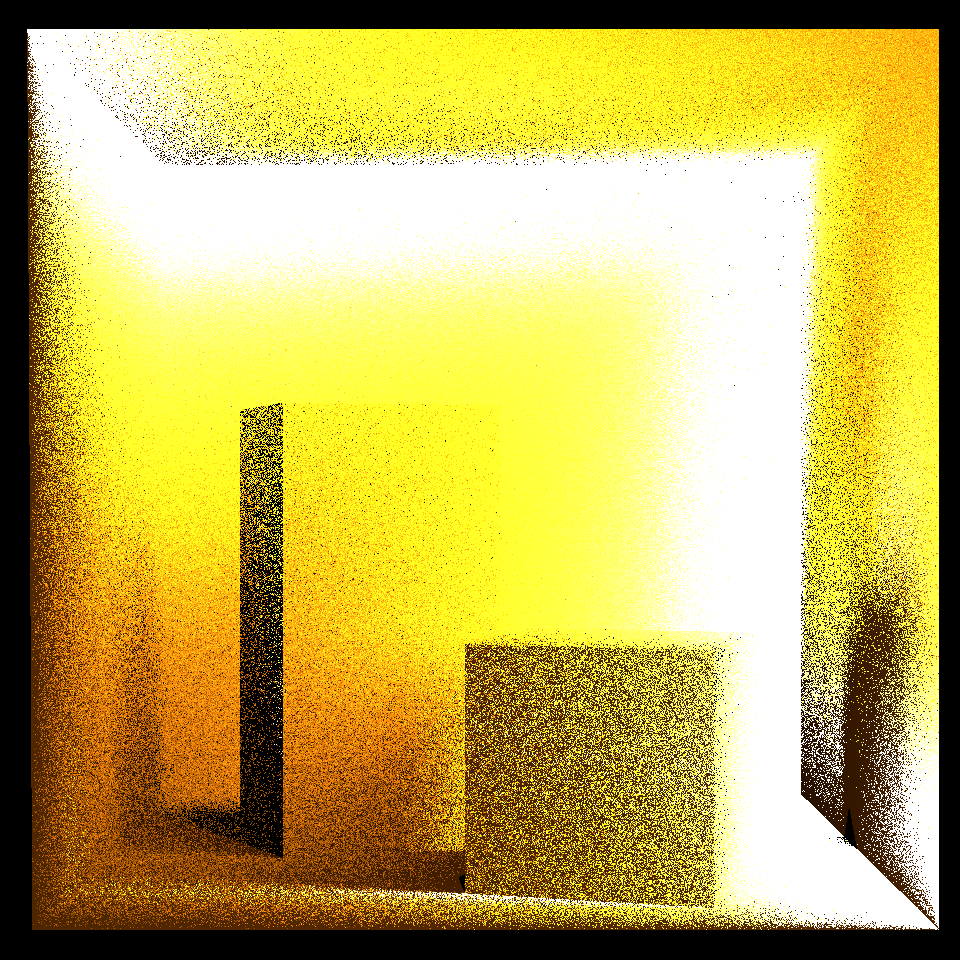
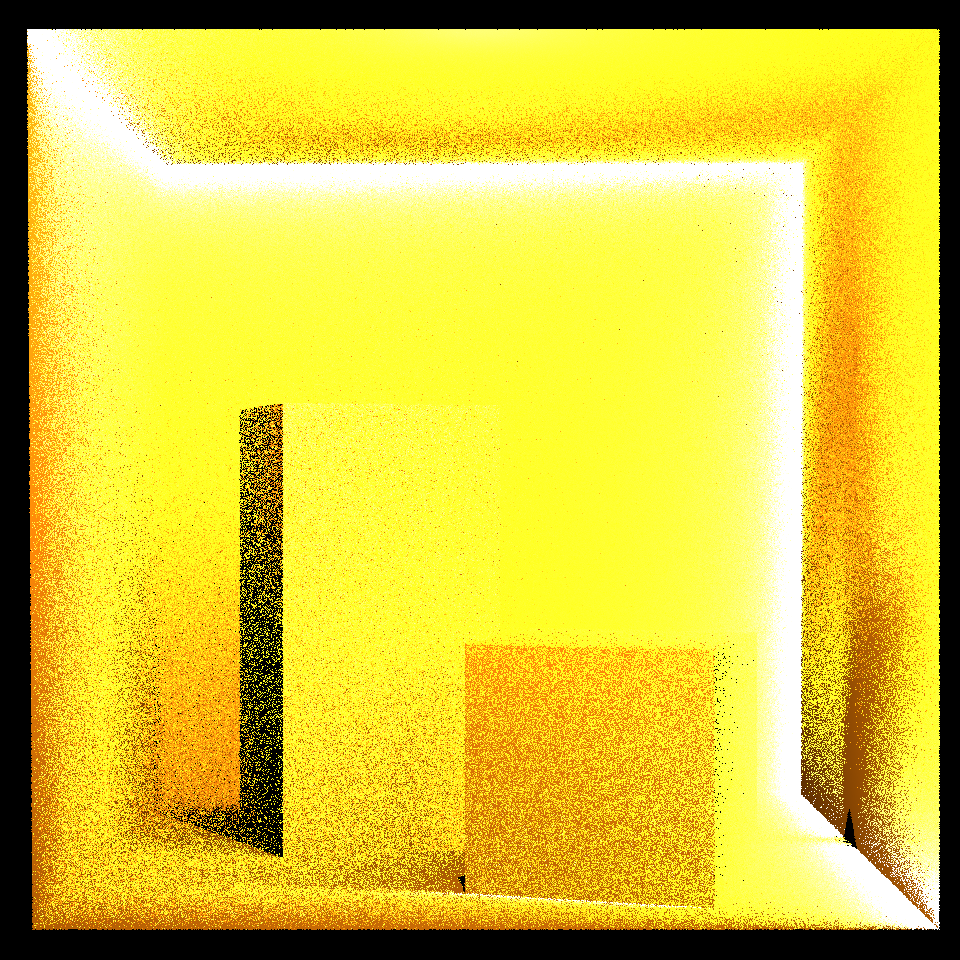
jittered camera rays over their entire domain!

diff --git a/src/ray_tracing/pixel_shader.rs b/src/ray_tracing/pixel_shader.rs
@@ -7,10 +7,11 @@ use crate::ray_tracing::ray_polygon_intersection::probe_ray_polygon_intersection
 
 use crate::scene::Scene;
 use image::{Rgb, RgbImage};
+use rand::{prelude::ThreadRng, thread_rng};
 use stopwatch::Stopwatch;
 
 /// applies rendering mode to scene and yields a canvas
-pub fn shade_pixels<F: Fn(u32, u32, &Scene) -> Rgb<u8>>(
+pub fn shade_pixels<F: Fn(u32, u32, &Scene, &mut ThreadRng) -> Rgb<u8>>(
     mini_canvas: &mut RgbImage,
     scene: &Scene,
     closure: F,
@@ -19,13 +20,14 @@ pub fn shade_pixels<F: Fn(u32, u32, &Scene) -> Rgb<u8>>(
     y_start: u32,
     y_end: u32,
 ) {
+    let mut rng: rand::prelude::ThreadRng = thread_rng();
     let mut shading = Stopwatch::start_new();
     // let (width, height) = canvas.dimensions();
     let _width = y_end - y_start;
     let _height = x_end - x_start;
     for y in y_start..y_end {
         for x in x_start..x_end {
-            let color = closure(x, y, scene);
+            let color = closure(x, y, scene, &mut rng);
             mini_canvas.put_pixel(x - x_start, y - y_start, color);
         }
     }
@@ -34,7 +36,7 @@ pub fn shade_pixels<F: Fn(u32, u32, &Scene) -> Rgb<u8>>(
     if scene.logging > 1 {}
 }
 
-pub fn _color_shader(x: u32, y: u32, scene: &Scene) -> Rgb<u8> {
+pub fn _color_shader(x: u32, y: u32, scene: &Scene, _rng: &mut ThreadRng) -> Rgb<u8> {
     let (hres, vres) = scene.active_camera.sensor.res();
     let x = x as f32 / (hres as f32);
     let y = y as f32 / (vres as f32);
@@ -62,8 +64,8 @@ pub fn _color_shader(x: u32, y: u32, scene: &Scene) -> Rgb<u8> {
 }
 
 /// shades all objects as solid
-pub fn _solid_shader(x: u32, y: u32, scene: &Scene) -> Rgb<u8> {
-    let ray = Camera::pixel_to_ray(&scene.active_camera, x, y);
+pub fn _solid_shader(x: u32, y: u32, scene: &Scene, rng: &mut ThreadRng) -> Rgb<u8> {
+    let ray = Camera::pixel_to_ray(&scene.active_camera, x, y, rng);
     let mut hit = false;
     // here we're at once per pixel
     for object in &scene.objects {
@@ -94,8 +96,8 @@ pub fn _solid_shader(x: u32, y: u32, scene: &Scene) -> Rgb<u8> {
 }
 
 /// shows where bounding volume hierarchies are
-pub fn bvh_shader(x: u32, y: u32, scene: &Scene) -> Rgb<u8> {
-    let ray = Camera::pixel_to_ray(&scene.active_camera, x, y);
+pub fn bvh_shader(x: u32, y: u32, scene: &Scene, rng: &mut ThreadRng) -> Rgb<u8> {
+    let ray = Camera::pixel_to_ray(&scene.active_camera, x, y, rng);
     let mut hit = false;
     // here we're at once per pixel
     for object in &scene.objects {
@@ -113,8 +115,8 @@ pub fn bvh_shader(x: u32, y: u32, scene: &Scene) -> Rgb<u8> {
 }
 
 /// render depth
-pub fn z_shader(x: u32, y: u32, scene: &Scene) -> Rgb<u8> {
-    let ray = Camera::pixel_to_ray(&scene.active_camera, x, y);
+pub fn z_shader(x: u32, y: u32, scene: &Scene, rng: &mut ThreadRng) -> Rgb<u8> {
+    let ray = Camera::pixel_to_ray(&scene.active_camera, x, y, rng);
     let intersection = shoot_ray(ray, scene, scene.max_trace_depth);
     if intersection.is_none() {
         Rgb([0, 0, 0])
@@ -128,24 +130,31 @@ pub fn z_shader(x: u32, y: u32, scene: &Scene) -> Rgb<u8> {
 
 /// fully lit shading mode
 /// this lambda is executed once per pixel
-pub fn lit_shader(x: u32, y: u32, scene: &Scene) -> Rgb<u8> {
-    let ray = Camera::pixel_to_ray(&scene.active_camera, x, y);
+pub fn lit_shader(x: u32, y: u32, scene: &Scene, rng: &mut ThreadRng) -> Rgb<u8> {
+    let ray = Camera::pixel_to_ray(&scene.active_camera, x, y, rng);
     let mut output: RadiantExitance = black_spectra().into();
     for _ in 0..scene.samples {
-        output.0 = output.0 + dispatch_light_ray(ray.clone(), scene, scene.max_trace_depth).0;
+        output.0 = output.0 + dispatch_light_ray(ray.clone(), scene, scene.max_trace_depth, rng).0;
     }
     let sample_average = output.0 / scene.samples as f32;
-    let output = scene.active_camera.exposure_time
+
+    // we should take a value parameterized in radiance, not radiant exitance
+    let joules = scene.active_camera.exposure_time
         * scene.active_camera.sensor._pixel_area()
         * scene.active_camera._pixel_solid_angle()
         * sample_average;
 
-    spectra_to_display(&output)
+    spectra_to_display(&joules)
 }
 
 /// this is what is recursed
 /// the ray is given
-pub fn dispatch_light_ray(ray: Ray, scene: &Scene, _trace_depth: u32) -> RadiantExitance {
+pub fn dispatch_light_ray(
+    ray: Ray,
+    scene: &Scene,
+    _trace_depth: u32,
+    rng: &mut ThreadRng,
+) -> RadiantExitance {
     let intersection = shoot_ray(ray, scene, scene.max_trace_depth);
     if intersection.is_none() {
         return void_spectra().into();
@@ -154,6 +163,8 @@ pub fn dispatch_light_ray(ray: Ray, scene: &Scene, _trace_depth: u32) -> Radiant
     let (object, intersection_point, ω_o, normal) = intersection.unwrap();
 
     // direct illumination
+    // this is basically integrating incoming light to our point
+    // we know the area subtended by this light source already, so we don't need multiple samples
     let direct_illumination: RadiantExitance =
         compute_direct_illumination(scene, object, intersection_point, ω_o, normal, _trace_depth);
     // direct_illumination
@@ -166,8 +177,8 @@ pub fn dispatch_light_ray(ray: Ray, scene: &Scene, _trace_depth: u32) -> Radiant
         //     surface_normal,
         // ));
 
-        let ray = Ray::new(intersection_point, _even_over_hemisphere(normal));
-        let indirect_illumination = dispatch_light_ray(ray, scene, scene.max_trace_depth - 1);
+        let ray = Ray::new(intersection_point, _even_over_hemisphere(normal, rng));
+        let indirect_illumination = dispatch_light_ray(ray, scene, scene.max_trace_depth - 1, rng);
         (direct_illumination.0 + indirect_illumination.0).into()
     } else {
         direct_illumination
@@ -296,13 +307,14 @@ mod tests {
     fn pixel_rays() {
         let mut scene = simple_scene();
         let mut ray: Ray;
+        let mut rng = thread_rng();
 
         scene.active_camera.lens.focal_length = 18.0;
         scene.active_camera.sensor.width = 36.0;
 
         scene.active_camera.sensor.horizontal_res = 3;
         scene.active_camera.sensor.vertical_res = 3;
-        ray = Camera::pixel_to_ray(&scene.active_camera, 0, 2);
+        ray = Camera::pixel_to_ray(&scene.active_camera, 0, 2, &mut rng);
 
         // println!("direction: {:?}", ray.direction);
 
@@ -314,7 +326,7 @@ mod tests {
 
         scene.active_camera.sensor.horizontal_res = 1;
         scene.active_camera.sensor.vertical_res = 1;
-        ray = Camera::pixel_to_ray(&scene.active_camera, 0, 0);
+        ray = Camera::pixel_to_ray(&scene.active_camera, 0, 0, &mut rng);
 
         // println!("direction: {:?}", ray.direction);
 

diff --git a/src/geometry/primitives.rs b/src/geometry/primitives.rs
@@ -2,7 +2,7 @@
 use crate::geometry::transformations::{compile_transforms, Transform};
 use image::{Rgb, RgbImage};
 use ndarray::Array1;
-use rand::Rng;
+use rand::{prelude::ThreadRng, Rng};
 // use crate::ray_tracing::rendering_equation::BRDF;
 
 /// geometry defining spatial surface
@@ -195,9 +195,8 @@ impl Vector {
 }
 
 /// actually even in a cube
-pub fn _even_over_sphere() -> Vector {
+pub fn _even_over_sphere(rng: &mut ThreadRng) -> Vector {
     loop {
-        let mut rng = rand::thread_rng();
         let vector = Vector::new(rng.gen(), rng.gen(), rng.gen());
         if vector.magnitude() <= 1.0 {
             return vector.unitized();
@@ -206,8 +205,8 @@ pub fn _even_over_sphere() -> Vector {
 }
 
 /// just an approximation
-pub fn _even_over_hemisphere(normal: Vector) -> Vector {
-    let output = _even_over_sphere();
+pub fn _even_over_hemisphere(normal: Vector, rng: &mut ThreadRng) -> Vector {
+    let output = _even_over_sphere(rng);
     if output.dot(&normal) < 0. {
         return -1. * output;
     }

diff --git a/src/camera.rs b/src/camera.rs
@@ -1,6 +1,8 @@
 #![allow(nonstandard_style)]
 use std::sync::Arc;
 
+use rand::{rngs::ThreadRng, Rng};
+
 // use crate::coordinate_space::Orientation;
 use crate::{
     geometry::primitives::{Ray, Vector},
@@ -58,9 +60,13 @@ impl Camera {
     }
 
     /// yeah, the math was hard for me too 2023-11-20
-    pub fn pixel_to_ray(camera: &Self, x: u32, y: u32) -> Ray {
-        let x = (x as f32) + 0.5; // centers the pixels
-        let y = (y as f32) + 0.5;
+    pub fn pixel_to_ray(camera: &Self, x: u32, y: u32, rng: &mut ThreadRng) -> Ray {
+        let x_jitter: f32 = rng.gen();
+        let y_jitter: f32 = rng.gen();
+        let x: f32 = (x as f32) + x_jitter; // centers the pixels
+        let y: f32 = (y as f32) + y_jitter;
+        // let x = (x as f32) + 0.5; // centers the pixels
+        // let y = (y as f32) + 0.5;
         let camera = camera;
         let (hres, vres) = camera.sensor.res();
         let mut horizontal_fraction: f32 = x / (hres as f32);
